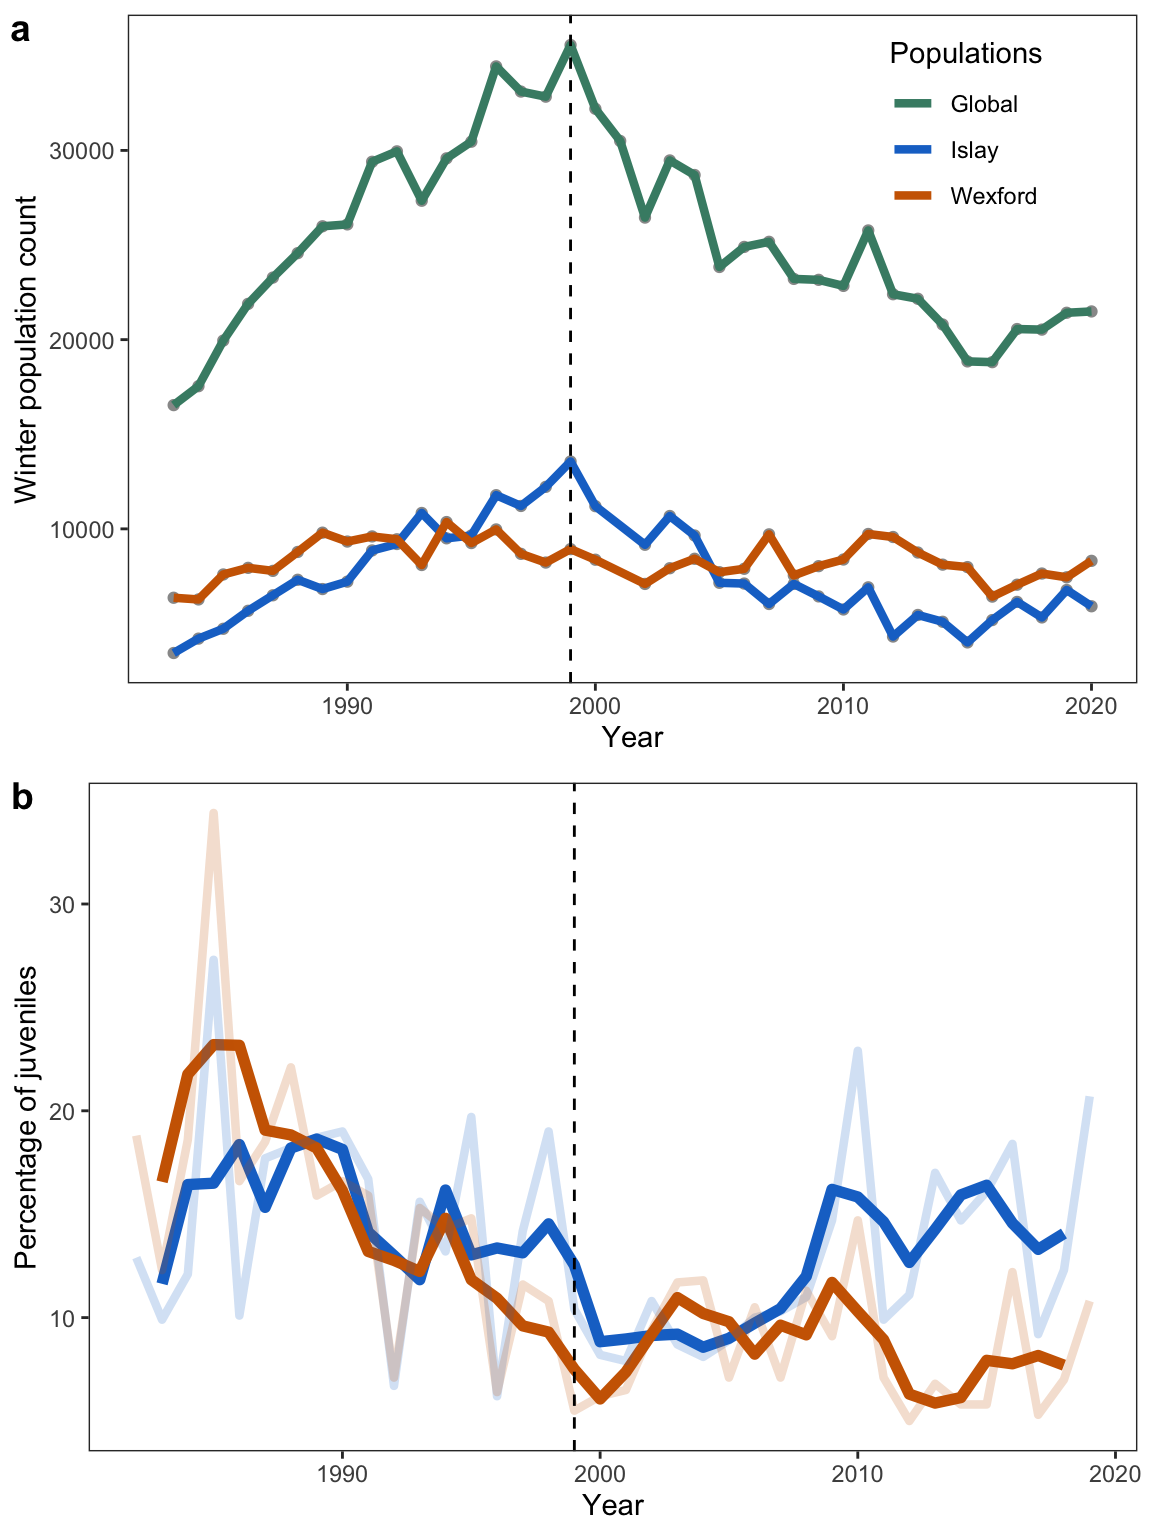
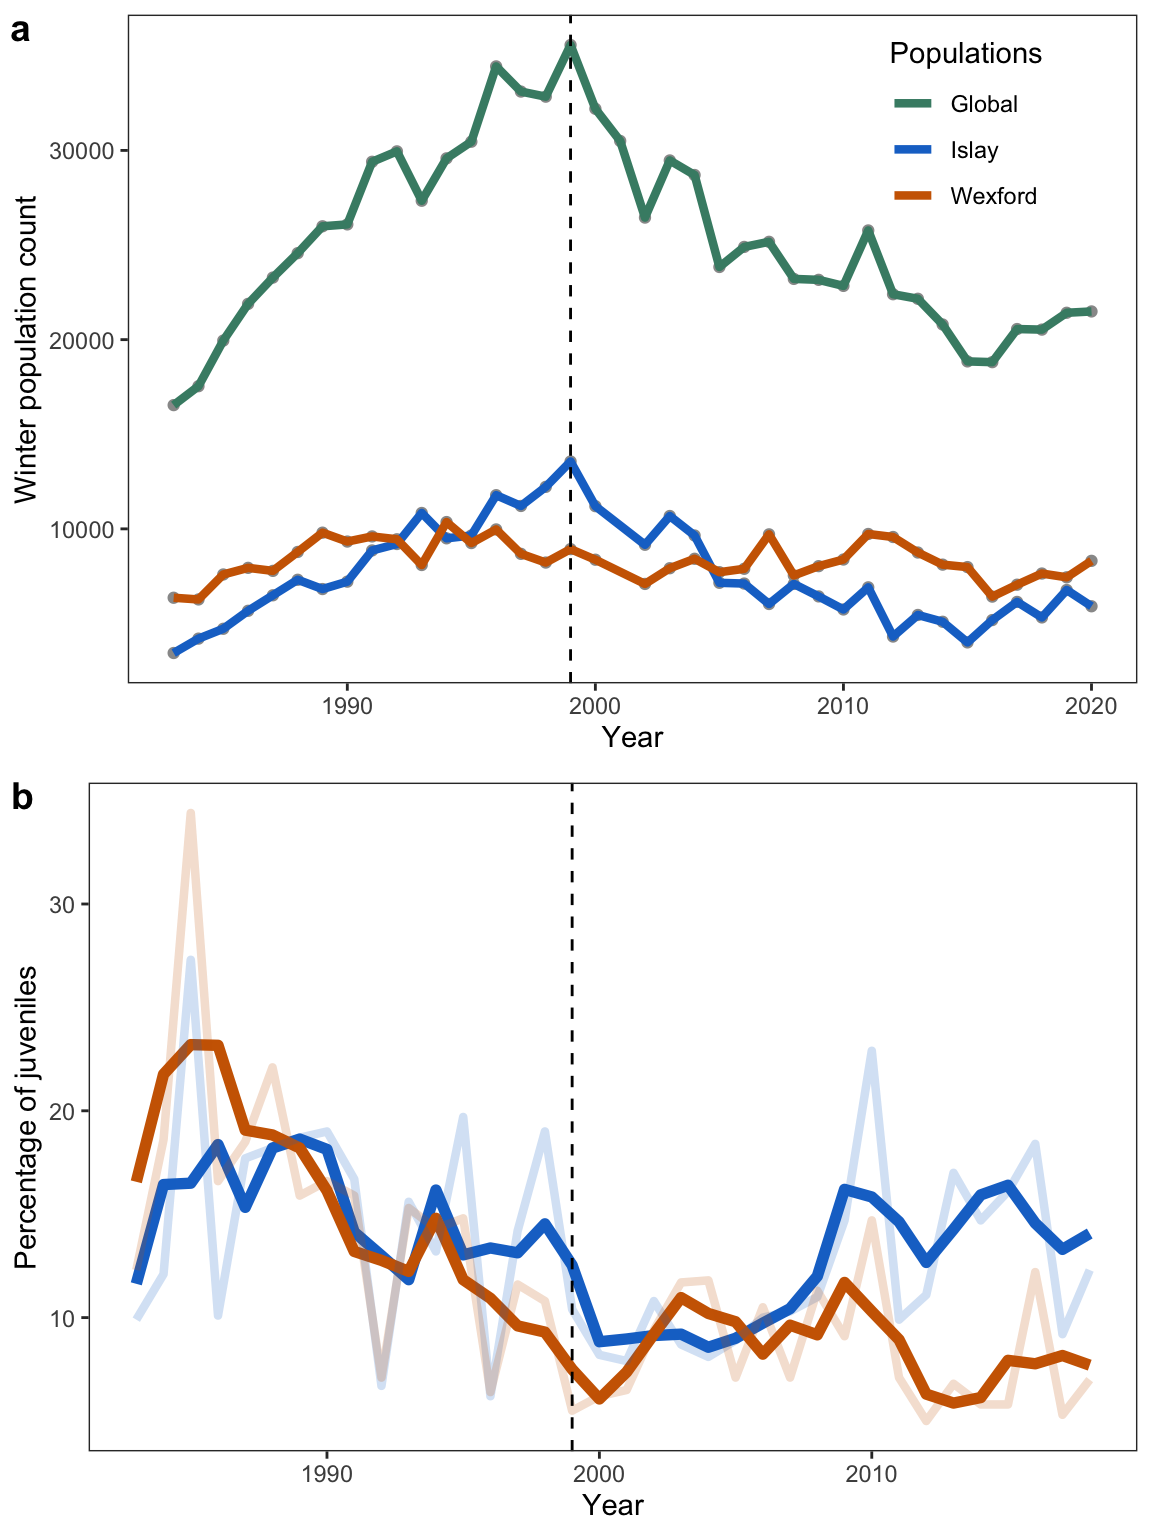
updating the paper with the full figure

diff --git a/docs/viz.html b/docs/viz.html
@@ -100,41 +100,44 @@ pre > code.sourceCode > span > a:first-child::before { text-decoration: underlin
 <span id="cb3-4"><a href="#cb3-4" aria-hidden="true" tabindex="-1"></a>max_mp <span class="ot">&lt;-</span> <span class="fu">readRDS</span>(here<span class="sc">::</span><span class="fu">here</span>(<span class="st">"data/outputs/max_metpop.RDS"</span>))</span></code><button title="Copy to Clipboard" class="code-copy-button"><i class="bi"></i></button></pre></div>
 </div>
 <div class="cell">
-<div class="sourceCode cell-code" id="cb4"><pre class="sourceCode r code-with-copy"><code class="sourceCode r"><span id="cb4-1"><a href="#cb4-1" aria-hidden="true" tabindex="-1"></a>young_plot <span class="ot">&lt;-</span> <span class="fu">ggplot</span>(young_count, <span class="fu">aes</span>(<span class="at">x =</span> data_year, <span class="at">y =</span> Perc_young)) <span class="sc">+</span> </span>
-<span id="cb4-2"><a href="#cb4-2" aria-hidden="true" tabindex="-1"></a>  <span class="fu">geom_line</span>(<span class="fu">aes</span>(<span class="at">x =</span> data_year, <span class="at">y =</span> roll_mean, <span class="at">color =</span> Ringing.location), <span class="at">linewidth =</span> <span class="dv">2</span>) <span class="sc">+</span> </span>
-<span id="cb4-3"><a href="#cb4-3" aria-hidden="true" tabindex="-1"></a>  <span class="fu">geom_line</span>(<span class="fu">aes</span>(<span class="at">color =</span> Ringing.location), <span class="at">alpha =</span> <span class="fl">0.2</span>, <span class="at">size =</span> <span class="fl">1.5</span>) <span class="sc">+</span> </span>
-<span id="cb4-4"><a href="#cb4-4" aria-hidden="true" tabindex="-1"></a>  <span class="fu">scale_color_manual</span>(<span class="at">values =</span> <span class="fu">c</span>(<span class="st">"dodgerblue3"</span>, <span class="st">"darkorange3"</span>)) <span class="sc">+</span> </span>
-<span id="cb4-5"><a href="#cb4-5" aria-hidden="true" tabindex="-1"></a>  <span class="fu">geom_vline</span>(<span class="fu">aes</span>(<span class="at">xintercept =</span> max_mp), <span class="at">linetype =</span> <span class="st">"dashed"</span>) <span class="sc">+</span> </span>
-<span id="cb4-6"><a href="#cb4-6" aria-hidden="true" tabindex="-1"></a>  <span class="fu">theme_bw</span>() <span class="sc">+</span> </span>
-<span id="cb4-7"><a href="#cb4-7" aria-hidden="true" tabindex="-1"></a>  <span class="fu">theme</span>(<span class="at">panel.grid =</span> <span class="fu">element_blank</span>(), <span class="at">legend.position =</span> <span class="st">"none"</span>) <span class="sc">+</span> </span>
-<span id="cb4-8"><a href="#cb4-8" aria-hidden="true" tabindex="-1"></a>  <span class="fu">labs</span>(<span class="at">color =</span> <span class="st">"Populations"</span>, </span>
-<span id="cb4-9"><a href="#cb4-9" aria-hidden="true" tabindex="-1"></a>       <span class="at">x =</span> <span class="st">"Year"</span>, </span>
-<span id="cb4-10"><a href="#cb4-10" aria-hidden="true" tabindex="-1"></a>       <span class="at">y =</span> <span class="st">"Percentage of juveniles"</span>)</span></code><button title="Copy to Clipboard" class="code-copy-button"><i class="bi"></i></button></pre></div>
+<div class="sourceCode cell-code" id="cb4"><pre class="sourceCode r code-with-copy"><code class="sourceCode r"><span id="cb4-1"><a href="#cb4-1" aria-hidden="true" tabindex="-1"></a>young_plot <span class="ot">&lt;-</span> young_count <span class="sc">%&gt;%</span> </span>
+<span id="cb4-2"><a href="#cb4-2" aria-hidden="true" tabindex="-1"></a>  <span class="fu">drop_na</span>() <span class="sc">%&gt;%</span> </span>
+<span id="cb4-3"><a href="#cb4-3" aria-hidden="true" tabindex="-1"></a>  <span class="fu">ggplot</span>(<span class="fu">aes</span>(<span class="at">x =</span> data_year, <span class="at">y =</span> Perc_young)) <span class="sc">+</span> </span>
+<span id="cb4-4"><a href="#cb4-4" aria-hidden="true" tabindex="-1"></a>  <span class="fu">geom_line</span>(<span class="fu">aes</span>(<span class="at">x =</span> data_year, <span class="at">y =</span> roll_mean, <span class="at">color =</span> Ringing.location), <span class="at">linewidth =</span> <span class="dv">2</span>) <span class="sc">+</span> </span>
+<span id="cb4-5"><a href="#cb4-5" aria-hidden="true" tabindex="-1"></a>  <span class="fu">geom_line</span>(<span class="fu">aes</span>(<span class="at">color =</span> Ringing.location), <span class="at">alpha =</span> <span class="fl">0.2</span>, <span class="at">size =</span> <span class="fl">1.5</span>) <span class="sc">+</span> </span>
+<span id="cb4-6"><a href="#cb4-6" aria-hidden="true" tabindex="-1"></a>  <span class="fu">scale_color_manual</span>(<span class="at">values =</span> <span class="fu">c</span>(<span class="st">"dodgerblue3"</span>, <span class="st">"darkorange3"</span>)) <span class="sc">+</span> </span>
+<span id="cb4-7"><a href="#cb4-7" aria-hidden="true" tabindex="-1"></a>  <span class="fu">geom_vline</span>(<span class="fu">aes</span>(<span class="at">xintercept =</span> max_mp), <span class="at">linetype =</span> <span class="st">"dashed"</span>) <span class="sc">+</span> </span>
+<span id="cb4-8"><a href="#cb4-8" aria-hidden="true" tabindex="-1"></a>  <span class="fu">theme_bw</span>() <span class="sc">+</span> </span>
+<span id="cb4-9"><a href="#cb4-9" aria-hidden="true" tabindex="-1"></a>  <span class="fu">theme</span>(<span class="at">panel.grid =</span> <span class="fu">element_blank</span>(), <span class="at">legend.position =</span> <span class="st">"none"</span>) <span class="sc">+</span> </span>
+<span id="cb4-10"><a href="#cb4-10" aria-hidden="true" tabindex="-1"></a>  <span class="fu">labs</span>(<span class="at">color =</span> <span class="st">"Populations"</span>, </span>
+<span id="cb4-11"><a href="#cb4-11" aria-hidden="true" tabindex="-1"></a>       <span class="at">x =</span> <span class="st">"Year"</span>, </span>
+<span id="cb4-12"><a href="#cb4-12" aria-hidden="true" tabindex="-1"></a>       <span class="at">y =</span> <span class="st">"Percentage of juveniles"</span>)</span></code><button title="Copy to Clipboard" class="code-copy-button"><i class="bi"></i></button></pre></div>
 <div class="cell-output cell-output-stderr">
 <pre><code>Warning: Using `size` aesthetic for lines was deprecated in ggplot2 3.4.0.
 ℹ Please use `linewidth` instead.</code></pre>
 </div>
+<div class="sourceCode cell-code" id="cb6"><pre class="sourceCode r code-with-copy"><code class="sourceCode r"><span id="cb6-1"><a href="#cb6-1" aria-hidden="true" tabindex="-1"></a>young_plot</span></code><button title="Copy to Clipboard" class="code-copy-button"><i class="bi"></i></button></pre></div>
+<div class="cell-output-display">
+<p><img src="viz_files/figure-html/unnamed-chunk-2-1.png" class="img-fluid" width="672"></p>
+</div>
 </div>
 <div class="cell">
-<div class="sourceCode cell-code" id="cb6"><pre class="sourceCode r code-with-copy"><code class="sourceCode r"><span id="cb6-1"><a href="#cb6-1" aria-hidden="true" tabindex="-1"></a>pop_plot <span class="ot">&lt;-</span> pop_counts <span class="sc">%&gt;%</span> </span>
-<span id="cb6-2"><a href="#cb6-2" aria-hidden="true" tabindex="-1"></a>  <span class="fu">drop_na</span>() <span class="sc">%&gt;%</span> </span>
-<span id="cb6-3"><a href="#cb6-3" aria-hidden="true" tabindex="-1"></a>  <span class="fu">ggplot</span>(<span class="fu">aes</span>(<span class="at">x =</span> spring, <span class="at">y =</span> count)) <span class="sc">+</span> </span>
-<span id="cb6-4"><a href="#cb6-4" aria-hidden="true" tabindex="-1"></a>  <span class="fu">geom_point</span>(<span class="fu">aes</span>(<span class="at">color =</span> site), <span class="at">color =</span> <span class="st">"gray60"</span>) <span class="sc">+</span> </span>
-<span id="cb6-5"><a href="#cb6-5" aria-hidden="true" tabindex="-1"></a>  <span class="fu">geom_line</span>(<span class="fu">aes</span>(<span class="at">color =</span> site), <span class="at">size =</span> <span class="fl">1.5</span>) <span class="sc">+</span> </span>
-<span id="cb6-6"><a href="#cb6-6" aria-hidden="true" tabindex="-1"></a>  <span class="fu">scale_color_manual</span>(<span class="at">values =</span> <span class="fu">c</span>(<span class="st">"aquamarine4"</span>, <span class="st">"dodgerblue3"</span>, <span class="st">"darkorange3"</span>)) <span class="sc">+</span> </span>
-<span id="cb6-7"><a href="#cb6-7" aria-hidden="true" tabindex="-1"></a>  <span class="fu">geom_vline</span>(<span class="fu">aes</span>(<span class="at">xintercept =</span> max_mp), <span class="at">linetype =</span> <span class="st">"dashed"</span>) <span class="sc">+</span> </span>
-<span id="cb6-8"><a href="#cb6-8" aria-hidden="true" tabindex="-1"></a>  <span class="fu">theme_bw</span>() <span class="sc">+</span> </span>
-<span id="cb6-9"><a href="#cb6-9" aria-hidden="true" tabindex="-1"></a>  <span class="fu">theme</span>(<span class="at">panel.grid =</span> <span class="fu">element_blank</span>(), </span>
-<span id="cb6-10"><a href="#cb6-10" aria-hidden="true" tabindex="-1"></a>        <span class="at">legend.position =</span> <span class="fu">c</span>(.<span class="dv">83</span>, .<span class="dv">83</span>), </span>
-<span id="cb6-11"><a href="#cb6-11" aria-hidden="true" tabindex="-1"></a>        <span class="at">legend.margin =</span> <span class="fu">margin</span>(<span class="at">t =</span> <span class="dv">0</span>)) <span class="sc">+</span> </span>
-<span id="cb6-12"><a href="#cb6-12" aria-hidden="true" tabindex="-1"></a>  <span class="fu">labs</span>(<span class="at">color =</span> <span class="st">"Populations"</span>, </span>
-<span id="cb6-13"><a href="#cb6-13" aria-hidden="true" tabindex="-1"></a>       <span class="at">x =</span> <span class="st">"Year"</span>, </span>
-<span id="cb6-14"><a href="#cb6-14" aria-hidden="true" tabindex="-1"></a>       <span class="at">y =</span> <span class="st">"Winter population count"</span>)</span>
-<span id="cb6-15"><a href="#cb6-15" aria-hidden="true" tabindex="-1"></a></span>
-<span id="cb6-16"><a href="#cb6-16" aria-hidden="true" tabindex="-1"></a>ggpubr<span class="sc">::</span><span class="fu">ggarrange</span>(pop_plot, young_plot, <span class="at">ncol =</span> <span class="dv">1</span>, <span class="at">labels =</span> <span class="st">"auto"</span>)</span></code><button title="Copy to Clipboard" class="code-copy-button"><i class="bi"></i></button></pre></div>
-<div class="cell-output cell-output-stderr">
-<pre><code>Warning: Removed 4 rows containing missing values (`geom_line()`).</code></pre>
-</div>
+<div class="sourceCode cell-code" id="cb7"><pre class="sourceCode r code-with-copy"><code class="sourceCode r"><span id="cb7-1"><a href="#cb7-1" aria-hidden="true" tabindex="-1"></a>pop_plot <span class="ot">&lt;-</span> pop_counts <span class="sc">%&gt;%</span> </span>
+<span id="cb7-2"><a href="#cb7-2" aria-hidden="true" tabindex="-1"></a>  <span class="fu">drop_na</span>() <span class="sc">%&gt;%</span> </span>
+<span id="cb7-3"><a href="#cb7-3" aria-hidden="true" tabindex="-1"></a>  <span class="fu">ggplot</span>(<span class="fu">aes</span>(<span class="at">x =</span> spring, <span class="at">y =</span> count)) <span class="sc">+</span> </span>
+<span id="cb7-4"><a href="#cb7-4" aria-hidden="true" tabindex="-1"></a>  <span class="fu">geom_point</span>(<span class="fu">aes</span>(<span class="at">color =</span> site), <span class="at">color =</span> <span class="st">"gray60"</span>) <span class="sc">+</span> </span>
+<span id="cb7-5"><a href="#cb7-5" aria-hidden="true" tabindex="-1"></a>  <span class="fu">geom_line</span>(<span class="fu">aes</span>(<span class="at">color =</span> site), <span class="at">size =</span> <span class="fl">1.5</span>) <span class="sc">+</span> </span>
+<span id="cb7-6"><a href="#cb7-6" aria-hidden="true" tabindex="-1"></a>  <span class="fu">scale_color_manual</span>(<span class="at">values =</span> <span class="fu">c</span>(<span class="st">"aquamarine4"</span>, <span class="st">"dodgerblue3"</span>, <span class="st">"darkorange3"</span>)) <span class="sc">+</span> </span>
+<span id="cb7-7"><a href="#cb7-7" aria-hidden="true" tabindex="-1"></a>  <span class="fu">geom_vline</span>(<span class="fu">aes</span>(<span class="at">xintercept =</span> max_mp), <span class="at">linetype =</span> <span class="st">"dashed"</span>) <span class="sc">+</span> </span>
+<span id="cb7-8"><a href="#cb7-8" aria-hidden="true" tabindex="-1"></a>  <span class="fu">theme_bw</span>() <span class="sc">+</span> </span>
+<span id="cb7-9"><a href="#cb7-9" aria-hidden="true" tabindex="-1"></a>  <span class="fu">theme</span>(<span class="at">panel.grid =</span> <span class="fu">element_blank</span>(), </span>
+<span id="cb7-10"><a href="#cb7-10" aria-hidden="true" tabindex="-1"></a>        <span class="at">legend.position =</span> <span class="fu">c</span>(.<span class="dv">83</span>, .<span class="dv">83</span>), </span>
+<span id="cb7-11"><a href="#cb7-11" aria-hidden="true" tabindex="-1"></a>        <span class="at">legend.margin =</span> <span class="fu">margin</span>(<span class="at">t =</span> <span class="dv">0</span>)) <span class="sc">+</span> </span>
+<span id="cb7-12"><a href="#cb7-12" aria-hidden="true" tabindex="-1"></a>  <span class="fu">labs</span>(<span class="at">color =</span> <span class="st">"Populations"</span>, </span>
+<span id="cb7-13"><a href="#cb7-13" aria-hidden="true" tabindex="-1"></a>       <span class="at">x =</span> <span class="st">"Year"</span>, </span>
+<span id="cb7-14"><a href="#cb7-14" aria-hidden="true" tabindex="-1"></a>       <span class="at">y =</span> <span class="st">"Winter population count"</span>)</span>
+<span id="cb7-15"><a href="#cb7-15" aria-hidden="true" tabindex="-1"></a></span>
+<span id="cb7-16"><a href="#cb7-16" aria-hidden="true" tabindex="-1"></a>ggpubr<span class="sc">::</span><span class="fu">ggarrange</span>(pop_plot, young_plot, <span class="at">ncol =</span> <span class="dv">1</span>, <span class="at">labels =</span> <span class="st">"auto"</span>)</span></code><button title="Copy to Clipboard" class="code-copy-button"><i class="bi"></i></button></pre></div>
 <div class="cell-output-display">
 <p><img src="viz_files/figure-html/unnamed-chunk-3-1.png" class="img-fluid" width="576"></p>
 </div>
